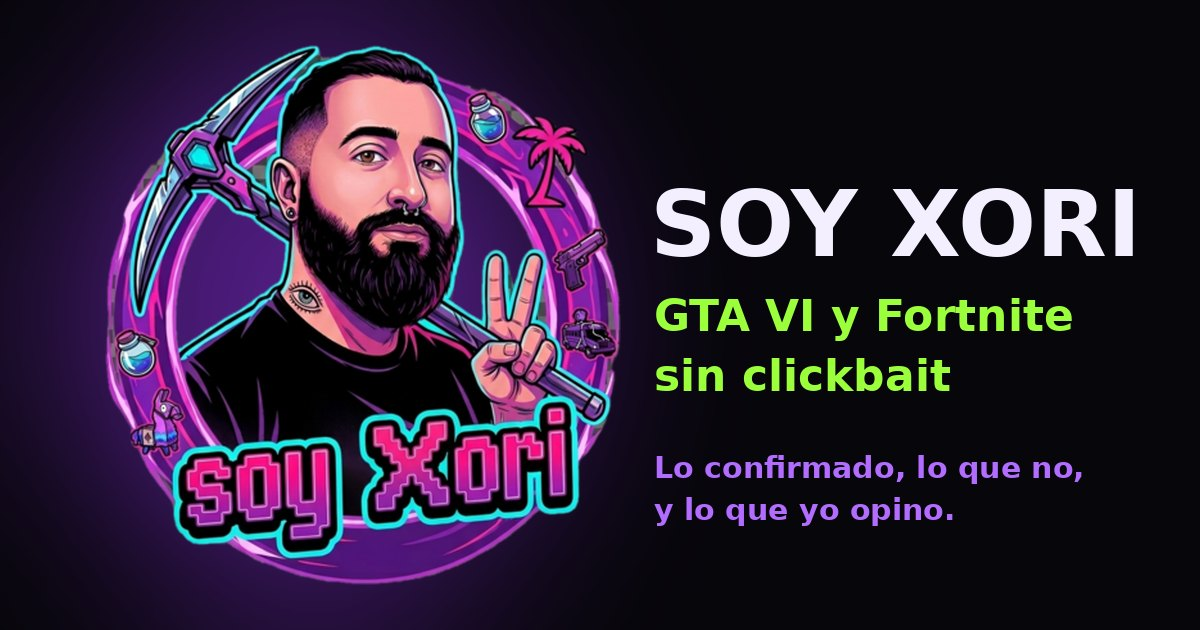
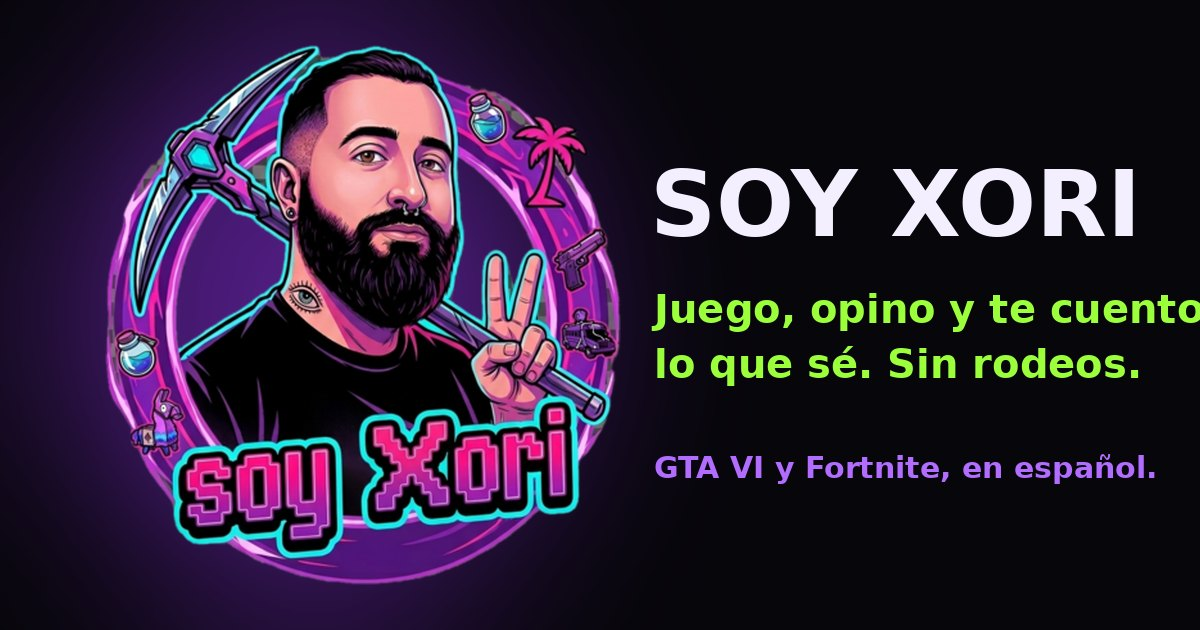
Actualiza la frase de la página: Juego, opino y te cuento lo que sé. Sin rodeos.
Cambia la frase bajo el nombre, la descripción y las etiquetas de vista previa, y rehace og-image.jpg.

Claude-Session: https://claude.ai/code/session_01EYaiHHsu1dZXbPD96wKKNi

diff --git a/index.html b/index.html
@@ -4,12 +4,12 @@
 <meta charset="UTF-8">
 <meta name="viewport" content="width=device-width, initial-scale=1.0">
 <title>Soy Xori — Enlaces</title>
-<meta name="description" content="GTA VI y Fortnite sin clickbait: lo confirmado, lo que no, y lo que yo opino.">
+<meta name="description" content="Juego, opino y te cuento lo que sé, sin rodeos. GTA VI y Fortnite, en español.">
 <meta name="theme-color" content="#07060b">
 <meta property="og:type" content="website">
 <meta property="og:site_name" content="Soy Xori">
 <meta property="og:title" content="Soy Xori">
-<meta property="og:description" content="GTA VI y Fortnite sin clickbait: lo confirmado, lo que no, y lo que yo opino.">
+<meta property="og:description" content="Juego, opino y te cuento lo que sé, sin rodeos. GTA VI y Fortnite, en español.">
 <meta property="og:url" content="https://soyxori.github.io/Soy-Xori/">
 <meta property="og:image" content="https://soyxori.github.io/Soy-Xori/og-image.jpg">
 <meta property="og:image:width" content="1200">
@@ -17,7 +17,7 @@
 <meta property="og:locale" content="es_ES">
 <meta name="twitter:card" content="summary_large_image">
 <meta name="twitter:title" content="Soy Xori">
-<meta name="twitter:description" content="GTA VI y Fortnite sin clickbait: lo confirmado, lo que no, y lo que yo opino.">
+<meta name="twitter:description" content="Juego, opino y te cuento lo que sé, sin rodeos. GTA VI y Fortnite, en español.">
 <meta name="twitter:image" content="https://soyxori.github.io/Soy-Xori/og-image.jpg">
[1 lines of base64/hex data omitted]
 <link rel="preconnect" href="https://fonts.googleapis.com">
@@ -299,7 +299,7 @@
   </div>
 
   <h1 class="name">SOY <span>XORI</span></h1>
-  <p class="tagline">GTA VI y Fortnite<br>Sin clickbait</p>
+  <p class="tagline">Juego, opino y te cuento<br>lo que sé. Sin rodeos.</p>
 
   <div class="countdown" role="group" aria-label="Cuenta atrás para GTA VI">
     <p class="countdown-label" id="cd-label">Se cierra el círculo — GTA VI · 19 NOV 2026</p>
